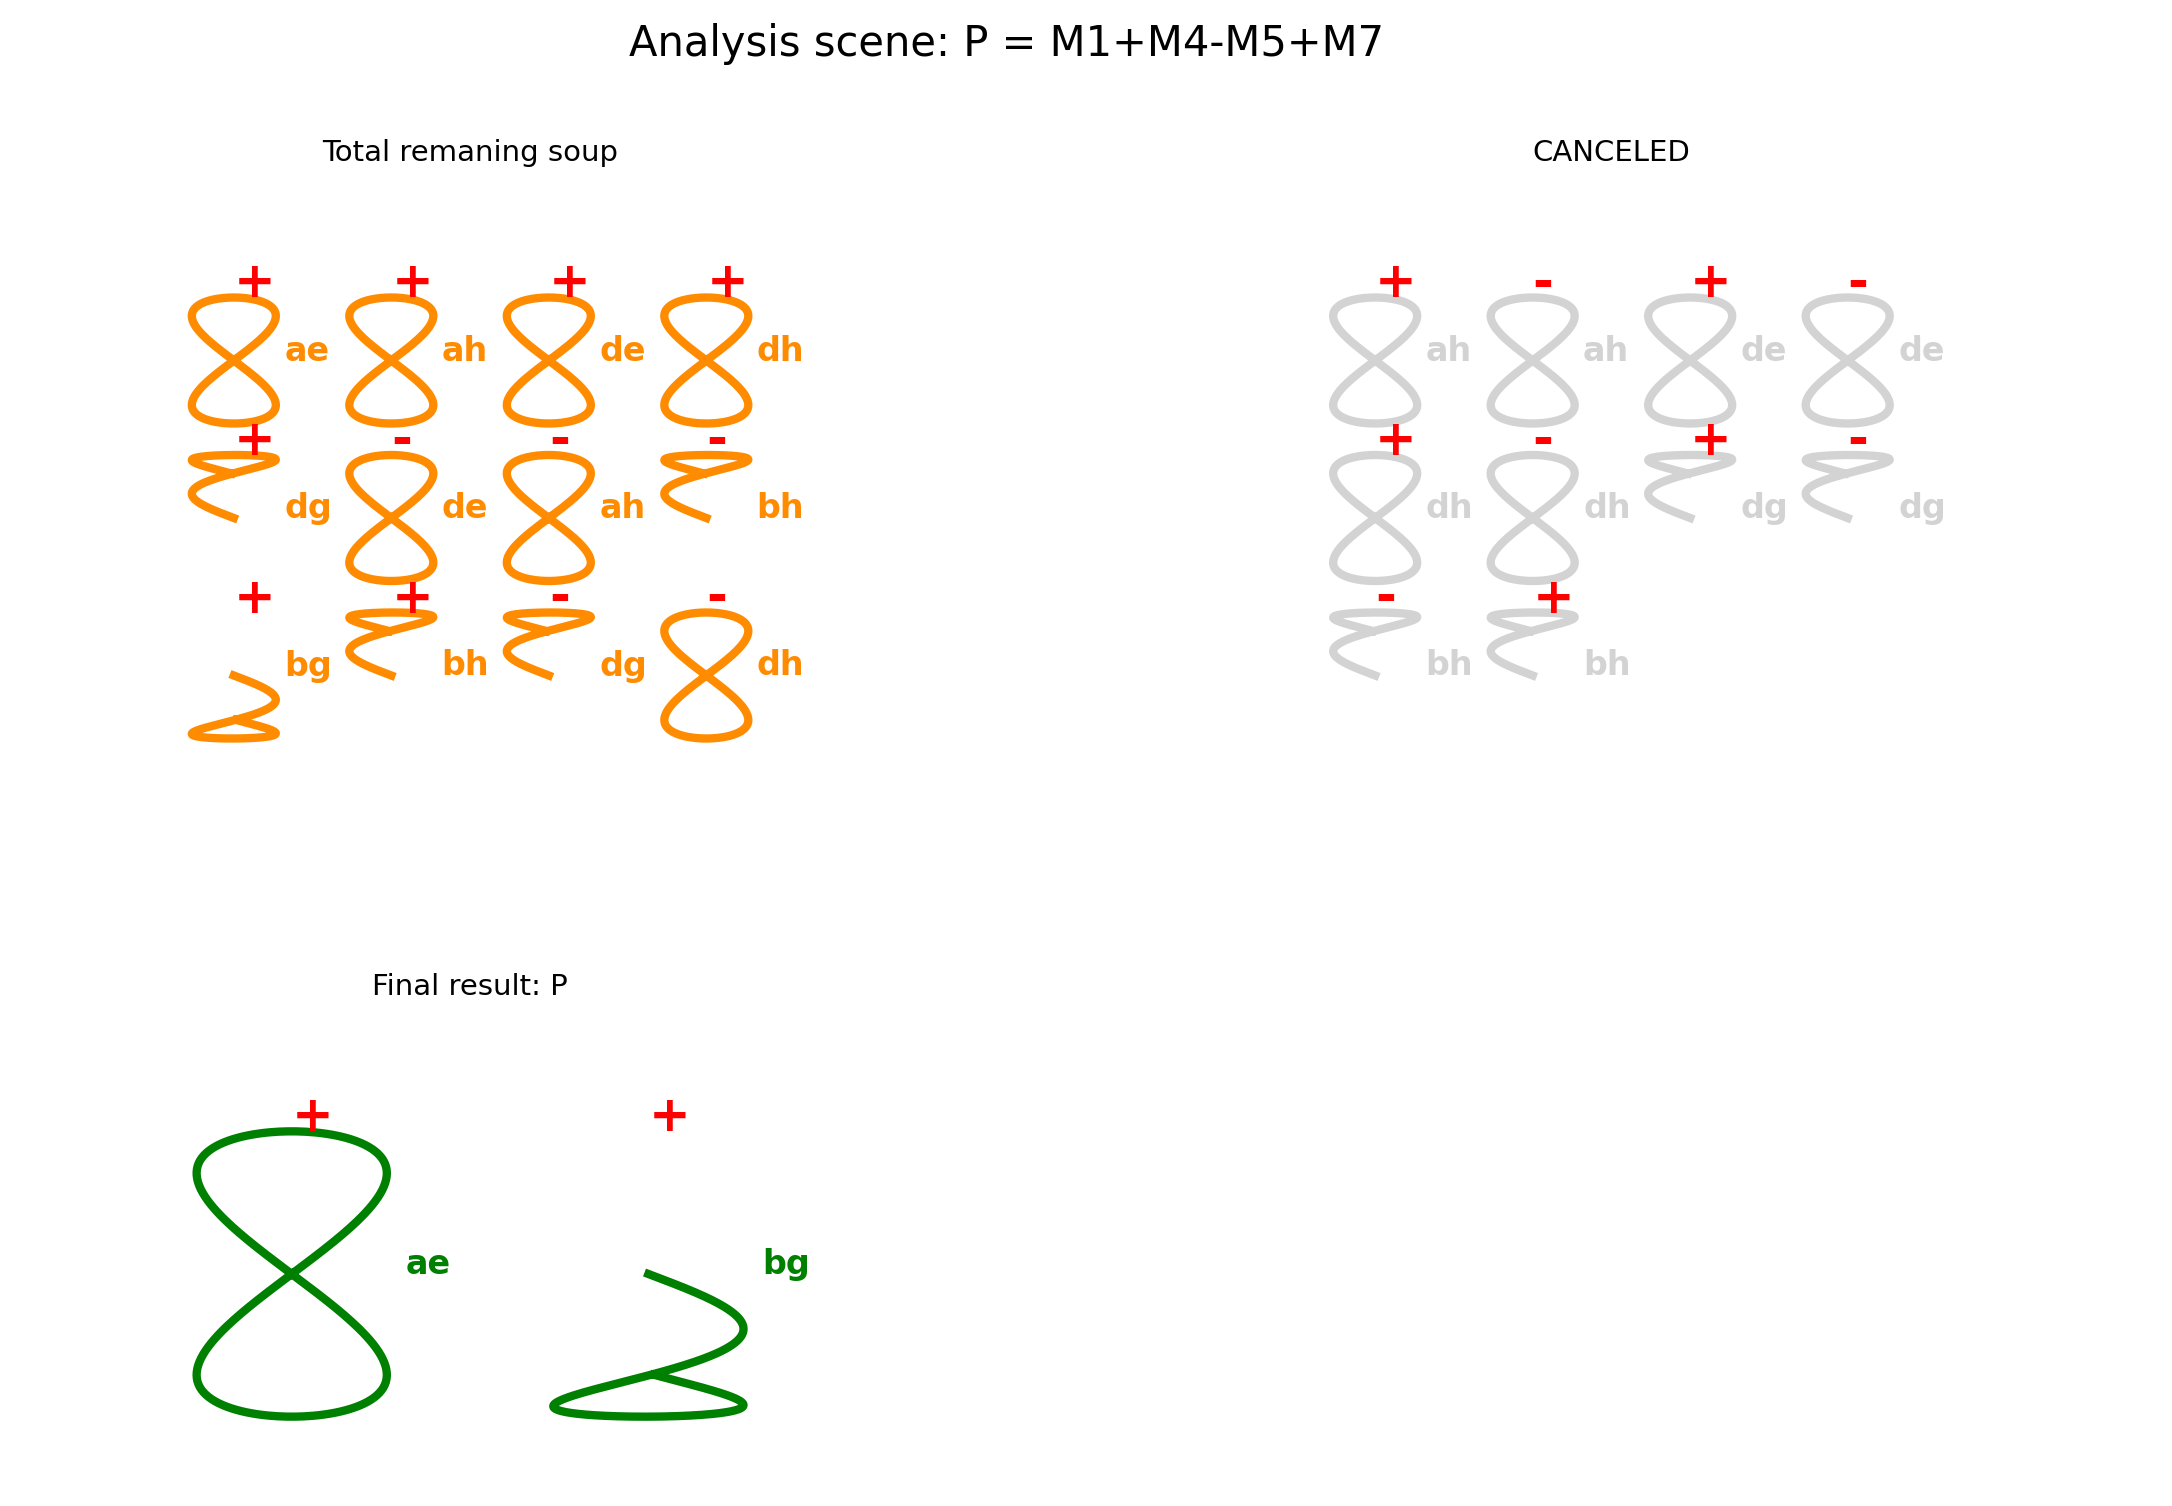
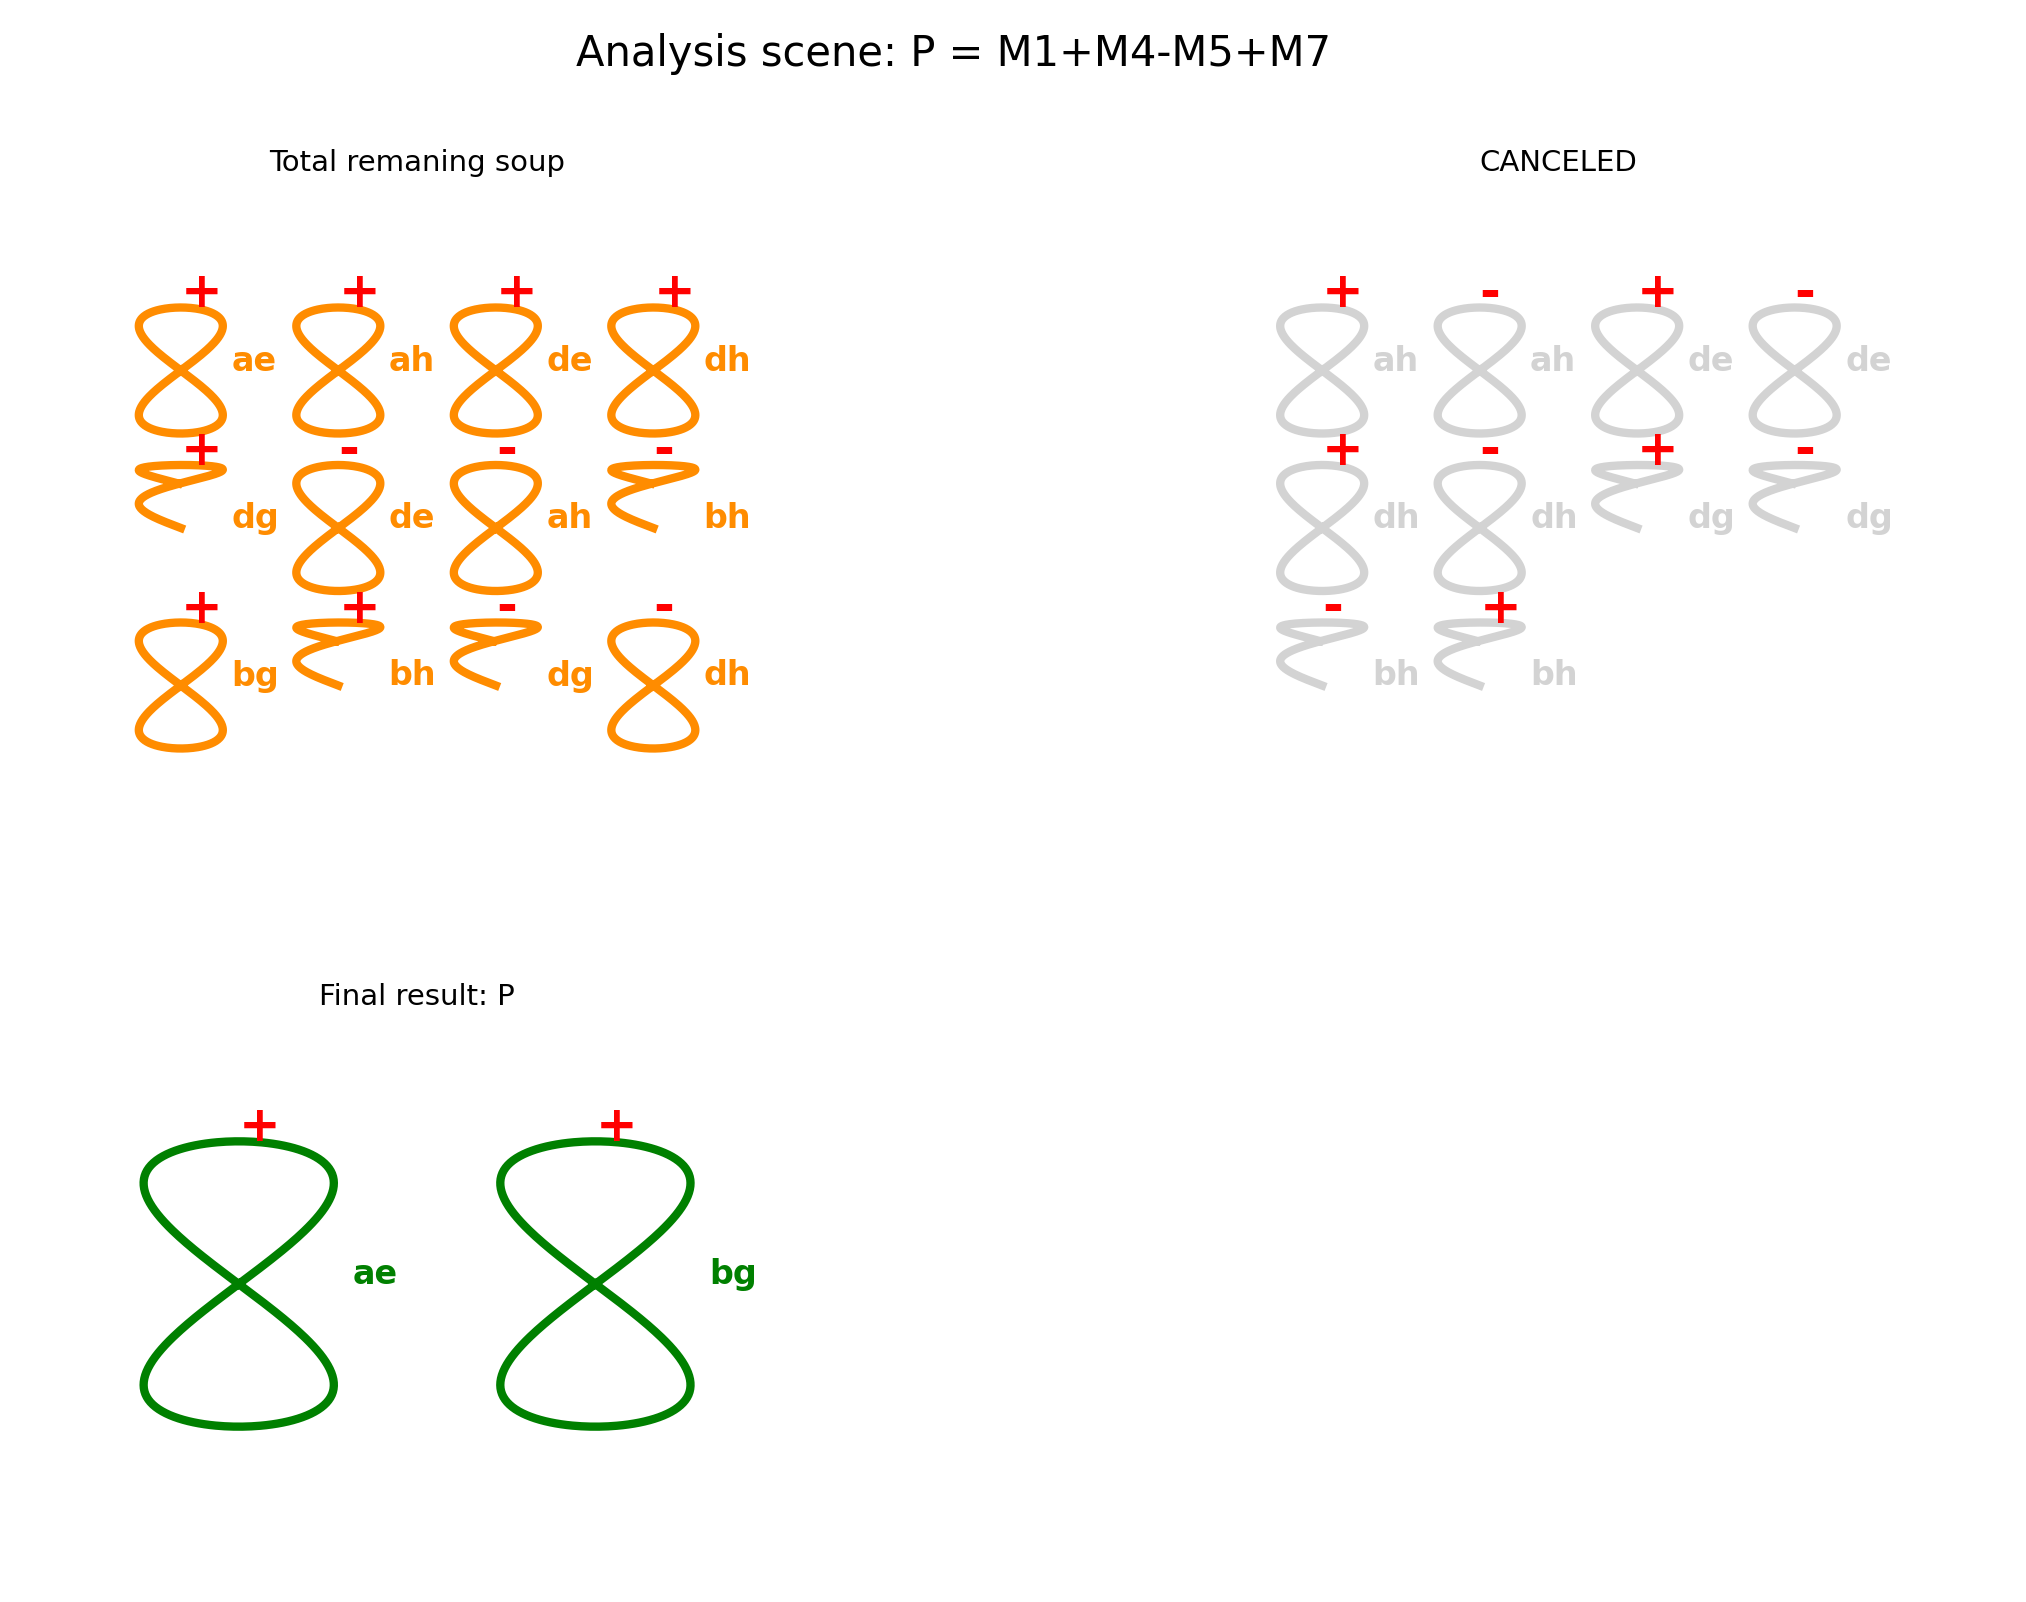
Critical change about the indexes and right images for the demonstrations

diff --git a/lastik.py b/lastik.py
@@ -143,9 +143,9 @@ def visualize_P():
     # P = M1 + M4 - M5 + M7
     # Define inputs
     M1_A = [Atom('single_1','a','+'), Atom('single_1','d','+')]; M1_B = [Atom('single_1','e','+'), Atom('single_1','h','+')]
-    M4_A = [Atom('single_1','d','+')]; M4_B = [Atom('single_5','g','+'), Atom('single_1','e','-')]
+    M4_A = [Atom('single_1','d','+')]; M4_B = [Atom('single_3','g','+'), Atom('single_1','e','-')]
     M5_A = [Atom('single_1','a','+'), Atom('single_2','b','+')]; M5_B = [Atom('single_1','h','+')]
-    M7_A = [Atom('single_2','b','+'), Atom('single_1','d','-')]; M7_B = [Atom('single_5','g','+'), Atom('single_1','h','+')]
+    M7_A = [Atom('single_2','b','+'), Atom('single_1','d','-')]; M7_B = [Atom('single_3','g','+'), Atom('single_1','h','+')]
     # Compute
     m1=collision(M1_A,M1_B); m4=collision(M4_A,M4_B); m5=collision(M5_A,M5_B); m7=collision(M7_A,M7_B)
     soup = m1 + m4 + flip_signs(m5) + m7
@@ -158,7 +158,7 @@ def visualize_P():
     plt.show()
 
 def visualize_Q():
-    M3_A=[Atom('single_1','a','+')]; M3_B=[Atom('single_4','f','+'), Atom('single_1','h','-')]
+    M3_A=[Atom('single_1','a','+')]; M3_B=[Atom('single_2','f','+'), Atom('single_1','h','-')]
     M5_A=[Atom('single_1','a','+'), Atom('single_2','b','+')]; M5_B=[Atom('single_1','h','+')]
     m3=collision(M3_A,M3_B); m5=collision(M5_A,M5_B); soup=m3+m5
     sonuc, iptal = cancel(soup)
@@ -172,7 +172,7 @@ def visualize_Q():
 def visualize_R():
     # R = M2 + M4
     M2_A = [Atom('single_3','c','+'), Atom('single_1','d','+')]; M2_B = [Atom('single_1','e','+')]
-    M4_A = [Atom('single_1','d','+')]; M4_B = [Atom('single_5','g','+'), Atom('single_1','e','-')]
+    M4_A = [Atom('single_1','d','+')]; M4_B = [Atom('single_3','g','+'), Atom('single_1','e','-')]
     m2=collision(M2_A,M2_B); m4=collision(M4_A,M4_B); soup=m2+m4
     sonuc, iptal = cancel(soup)
     fig=plt.figure(figsize=(12,12)); fig.suptitle("Analysis scene: R = M2+M4", fontsize=20)
@@ -185,8 +185,8 @@ def visualize_S():
     # S = M1 - M2 + M3 + M6
     M1_A = [Atom('single_1','a','+'), Atom('single_1','d','+')]; M1_B = [Atom('single_1','e','+'), Atom('single_1','h','+')]
     M2_A = [Atom('single_3','c','+'), Atom('single_1','d','+')]; M2_B = [Atom('single_1','e','+')]
-    M3_A = [Atom('single_1','a','+')]; M3_B = [Atom('single_4','f','+'), Atom('single_1','h','-')]
-    M6_A = [Atom('single_3','c','+'), Atom('single_1','a','-')]; M6_B = [Atom('single_1','e','+'), Atom('single_4','f','+')]
+    M3_A = [Atom('single_1','a','+')]; M3_B = [Atom('single_2','f','+'), Atom('single_1','h','-')]
+    M6_A = [Atom('single_3','c','+'), Atom('single_1','a','-')]; M6_B = [Atom('single_1','e','+'), Atom('single_2','f','+')]
     m1=collision(M1_A,M1_B); m2=collision(M2_A,M2_B); m3=collision(M3_A,M3_B); m6=collision(M6_A,M6_B)
     soup = m1 + flip_signs(m2) + m3 + m6
     sonuc, iptal = cancel(soup)
